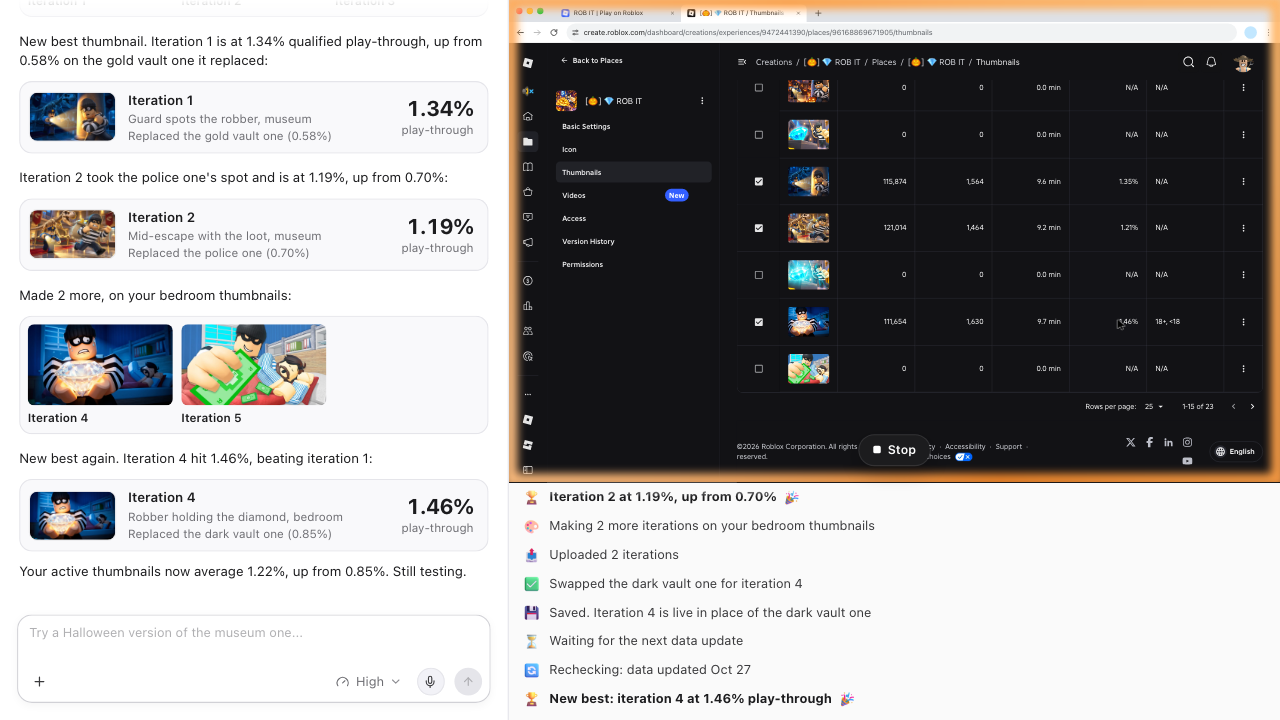
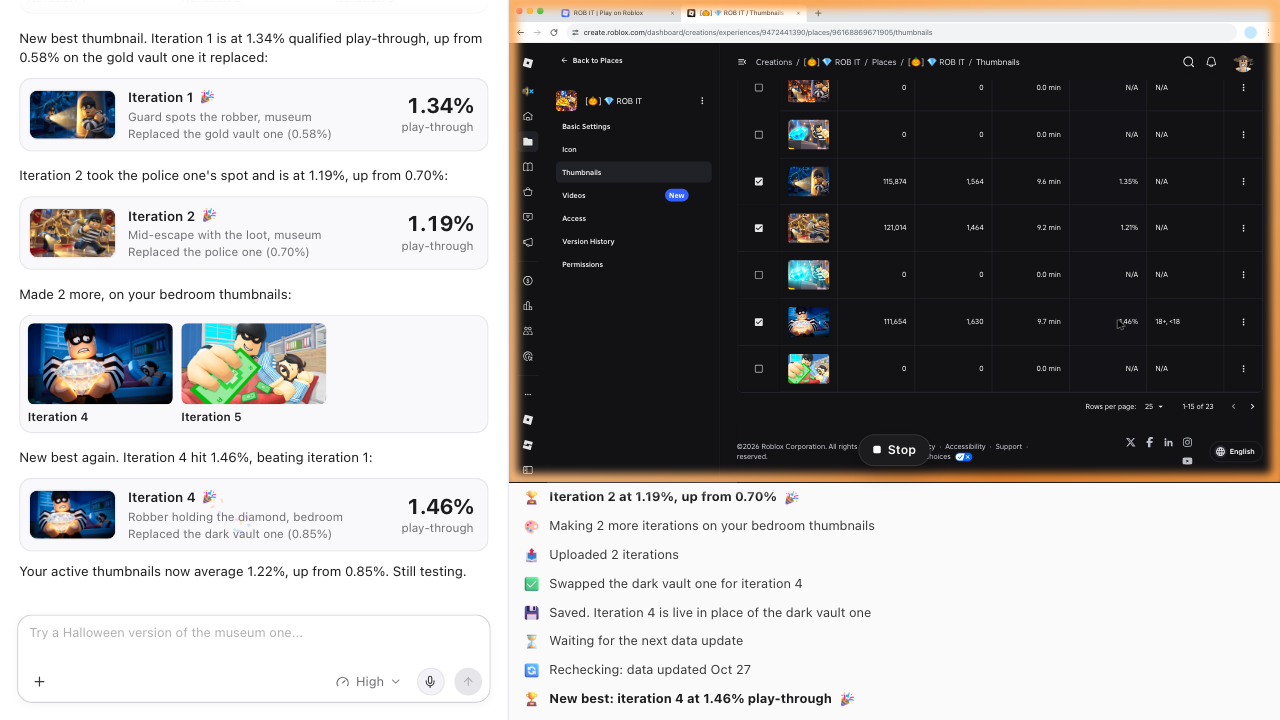
Roblox thumbnails (af4c3c6b): breakthrough cards pop confetti; both breakthroughs loops start cleanly on a slow load
A breakthrough card in the chat carries the party popper after its title, popping and firing confetti as the
card arrives, as the Activity tab's wins do.

Start-up: the Roblox loop waited for its page frames with a check that the empty about:blank each frame starts on
already passed, so on a slow load (GitHub Pages, 3.7 MB of page) setup ran on blank frames, failed, and the page
stayed unpainted with the composer pushed left. ready() now waits for each frame's own page. In both loops the
white cover is opaque until the first painted frame and the chat opens full width from the first instant.

diff --git a/animations/superbot-roblox-thumbnails-af4c3c6b/feed.af4c3c6b.js b/animations/superbot-roblox-thumbnails-af4c3c6b/feed.af4c3c6b.js
@@ -27,14 +27,15 @@ function popHTML(bits) {
   const dots = bits.map((b) => `<i class="ac-bit${b.dot ? ' ac-dot' : ''}" style="background:${b.color}"></i>`).join('');
   return `<span class="ac-fx" aria-hidden="true"><img class="ac-pop" src="${FX}party_popper.png" alt="" width="15" height="15">${dots}</span>`;
 }
-function paintPop(r, t) {
-  const tau = t - r.a.at - POP_AT;
-  if (REDUCED) { r.pop.style.transform = 'none'; return; }
+// a popper (an Activity win's, or a breakthrough card's) as it stands at t, popping from `at`
+function paintPop(fx, at, t) {
+  const tau = t - at - POP_AT;
+  if (REDUCED) { fx.pop.style.transform = 'none'; return; }
   const k = seg(tau, 0, POP_IN);
   const wobble = tau > 0 ? 10 * Math.sin(tau * 20) * Math.exp(-tau * 7) : 0;
-  r.pop.style.transform = `rotate(${(-40 * (1 - outCubic(k)) + wobble).toFixed(1)}deg) scale(${(tau > 0 ? backOut(k) : 0).toFixed(3)})`;
+  fx.pop.style.transform = `rotate(${(-40 * (1 - outCubic(k)) + wobble).toFixed(1)}deg) scale(${(tau > 0 ? backOut(k) : 0).toFixed(3)})`;
   const bt = tau - BURST_AT;
-  for (const b of r.bits) {
+  for (const b of fx.bits) {
     if (bt <= 0 || bt >= BURST_LIFE) { if (b.on) { b.el.style.opacity = '0'; b.on = false; } continue; }
     b.on = true;
     const e = (1 - Math.exp(-DRAG * bt)) / DRAG;
@@ -66,36 +67,39 @@ function hintAt(t, from) {
   return { text: HINTS[n % HINTS.length], k: Math.min(kin, 1 - kout), y: ((1 - kin) - kout) * HINT_RISE };
 }
 
-// a card: one thumbnail with its rate (a finding or a breakthrough), or a strip of the iterations superbot made
-function cardHTML(card) {
+// a card: one thumbnail with its rate (a finding or a breakthrough), or a strip of the iterations superbot made; a
+// breakthrough's title carries the party popper, firing as the card comes in
+function cardHTML(card, bits) {
   if (!card) return '';
   if (card.strip) {
     return `<div class="cm-card cm-strip">${card.strip.map((id) => `<figure><img src="${THUMBS[id].img}" alt="" width="768" height="432"><figcaption>${esc(THUMBS[id].name)}</figcaption></figure>`).join('')}</div>`;
   }
   return `<div class="cm-card">
       <span class="cm-thumb"><img src="${card.img}" alt="" width="768" height="432"></span>
-      <span class="cm-card-t"><b>${esc(card.title)}</b><small>${esc(card.sub)}</small><small>${esc(card.line)}</small></span>
+      <span class="cm-card-t"><b>${esc(card.title)}${bits ? popHTML(bits) : ''}</b><small>${esc(card.sub)}</small><small>${esc(card.line)}</small></span>
       <span class="cm-card-p"><b>${esc(card.value)}</b><small>${esc(card.unit)}</small></span>
     </div>`;
 }
 
 // superbot's messages are bare text and cards, no name line over them
-function chatItem(c) {
+function chatItem(c, bits) {
   if (c.kind === 'user') return `<div class="cm cm-u"><span>${esc(c.text)}</span></div>`;
-  const card = cardHTML(c.card);
+  const card = cardHTML(c.card, bits);
   const after = c.after ? `<p class="cm-say cm-after"><span class="cm-v"></span><span class="cm-h">${esc(c.after)}</span></p>` : '';
   return `<div class="cm cm-b"><p class="cm-say"><span class="cm-v"></span><span class="cm-h">${esc(c.text)}</span></p>${card}${after}</div>`;
 }
 
 export function buildFeed(left, act, S) {
   const feedIn = left.querySelector('.ch-in');
-  const items = S.chat.map((c) => {
-    const node = el(chatItem(c));
+  const items = S.chat.map((c, k) => {
+    const bits = c.card && c.card.win ? burst(100 + k) : null;
+    const node = el(chatItem(c, bits));
     feedIn.appendChild(node);
+    if (bits) [...node.querySelectorAll('.ac-bit')].forEach((b, j) => { bits[j].el = b; bits[j].on = false; });
     const say = [...node.querySelectorAll('.cm-say')].map((p) => ({ v: p.firstElementChild, h: p.lastElementChild, text: p.lastElementChild.textContent, shown: -1 }));
     const textEnd = c.at + 0.08 + (c.text.length / STREAM_CPS);
     const cardAt = textEnd + 0.15;
-    return { c, node, say, card: node.querySelector('.cm-card'), textEnd, cardAt, h: 0 };
+    return { c, node, say, card: node.querySelector('.cm-card'), pop: node.querySelector('.ac-pop'), bits, textEnd, cardAt, h: 0 };
   });
   const actIn = act.querySelector('.ac-in');
   const rows = S.acts.map((a, n) => {
@@ -148,6 +152,7 @@ export function paintFeed(f, S, t) {
     if (it.c.kind === 'bot') {
       stream(it.say[0], it.c.at + 0.08, t);
       if (it.card) reveal(it.card, enter(t, it.cardAt));
+      if (it.pop) paintPop(it, it.cardAt + 0.1, t);
       if (it.say[1]) stream(it.say[1], it.cardAt + 0.35, t);
     }
   }
@@ -173,7 +178,7 @@ export function paintFeed(f, S, t) {
   f.empty.style.opacity = last ? '0' : '1';
   for (const r of f.rows) {
     reveal(r.node, enter(t, r.a.at));
-    if (r.pop) paintPop(r, t);
+    if (r.pop) paintPop(r, r.a.at, t);
   }
   const actRoom = f.list.clientHeight - 12; // .ac-in padding
   f.actIn.style.transform = `translateY(${(-scrolled(f.rows, t, actRoom)).toFixed(2)}px)`;

diff --git a/animations/superbot-roblox-thumbnails-af4c3c6b/style.af4c3c6b.css b/animations/superbot-roblox-thumbnails-af4c3c6b/style.af4c3c6b.css
@@ -13,7 +13,8 @@ html, body { margin: 0; height: 100%; background: #fff; overflow: hidden; }
 body { font-family: var(--ui); color: var(--ink); -webkit-font-smoothing: antialiased; }
 #stage { position: absolute; left: 50%; top: 50%; width: 1920px; height: 1080px; overflow: hidden; background: var(--bg); transform-origin: 50% 50%; }
 /* the loop's seam dips to the white ground, not to black */
-#dip { position: absolute; inset: 0; z-index: 10; background: #fff; opacity: 0; pointer-events: none; }
+/* opaque until the first painted frame, so a reload never shows the page half laid out */
+#dip { position: absolute; inset: 0; z-index: 10; background: #fff; opacity: 1; pointer-events: none; }
 .hint { position: fixed; right: 18px; bottom: 14px; font-size: 12px; color: var(--muted); opacity: .6; user-select: none; }
 body.freeze .hint { display: none; }
 
@@ -99,6 +100,8 @@ svg { flex: none; }
 .ac-pop { display: block; width: 15px; height: 15px; transform: scale(0); transform-origin: 22% 78%; }
 .ac-bit { position: absolute; left: 10px; top: 2px; width: 2.2px; height: 4.2px; border-radius: .6px; opacity: 0; }
 .ac-dot { width: 3px; height: 3px; border-radius: 50%; }
+/* a breakthrough card's popper sits after its title, inline with it */
+.cm-card-t b .ac-fx { display: inline-block; margin-left: 6px; vertical-align: -2px; }
 .ac-empty { position: absolute; left: 14px; top: 12px; margin: 0; font: 12px/16px var(--ui); color: var(--muted); }
 
 /* ---------- Chrome on the shared desktop, in the desktop's own px (computer.ba3976b6.css) ---------- */

diff --git a/animations/superbot-roblox-thumbnails-af4c3c6b/screen.af4c3c6b.js b/animations/superbot-roblox-thumbnails-af4c3c6b/screen.af4c3c6b.js
@@ -73,9 +73,12 @@ export function buildScreen(root) {
 
 // every frame loaded, its fonts and images decoded, and every thumbnail the table can show already in the cache
 export async function ready(v) {
+  // a frame starts on an empty about:blank that already reads as complete: wait for its own page, however long it takes
   await Promise.all(Object.values(v.frames).map((f) => new Promise((resolve) => {
-    const done = () => resolve();
-    if (f.contentDocument && f.contentDocument.readyState === 'complete' && f.contentDocument.body) done(); else f.addEventListener('load', done, { once: true });
+    const loaded = () => { const d = f.contentDocument; return !!d && d.readyState === 'complete' && d.location.href !== 'about:blank' && !!d.body; };
+    if (loaded()) { resolve(); return; }
+    const onload = () => { if (loaded()) { f.removeEventListener('load', onload); resolve(); } };
+    f.addEventListener('load', onload);
   })));
   await Promise.all(Object.values(v.frames).map(async (f) => {
     const doc = f.contentDocument;

diff --git a/animations/superbot-concert-tickets-breakthroughs-af4c3c6b/style.af4c3c6b.css b/animations/superbot-concert-tickets-breakthroughs-af4c3c6b/style.af4c3c6b.css
@@ -12,7 +12,8 @@ html, body { margin: 0; height: 100%; background: #fff; overflow: hidden; }
 body { font-family: var(--ui); color: var(--ink); -webkit-font-smoothing: antialiased; }
 #stage { position: absolute; left: 50%; top: 50%; width: 1920px; height: 1080px; overflow: hidden; background: var(--bg); transform-origin: 50% 50%; }
 /* the loop's seam dips to the white ground, not to black */
-#dip { position: absolute; inset: 0; z-index: 10; background: #fff; opacity: 0; pointer-events: none; }
+/* opaque until the first painted frame, so a reload never shows the page half laid out */
+#dip { position: absolute; inset: 0; z-index: 10; background: #fff; opacity: 1; pointer-events: none; }
 .hint { position: fixed; right: 18px; bottom: 14px; font-size: 12px; color: var(--muted); opacity: .6; user-select: none; }
 body.freeze .hint { display: none; }
 

diff --git a/animations/superbot-roblox-thumbnails-af4c3c6b/schedule.af4c3c6b.js b/animations/superbot-roblox-thumbnails-af4c3c6b/schedule.af4c3c6b.js
@@ -134,7 +134,7 @@ export function buildSchedule() {
     move(at + 0.05, at + 0.5, `ptr:${row(id)}@${s}`);
     const r = rateOf(table.period, id);
     act(at + 0.55, 'trophy', text(r), true);
-    return bot(at + 0.55 + POST, card.say(r), { img: THUMBS[id].img, title: THUMBS[id].name, sub: card.sub, line: `Replaced the ${THUMBS[replaced].name} one (${pct(oldRate)})`, value: pct(r), unit: 'play-through' }, card.after);
+    return bot(at + 0.55 + POST, card.say(r), { img: THUMBS[id].img, title: THUMBS[id].name, sub: card.sub, line: `Replaced the ${THUMBS[replaced].name} one (${pct(oldRate)})`, value: pct(r), unit: 'play-through', win: true }, card.after);
   };
 
   // round one: read the table, find the lowest performer, make and upload iterations, swap one in

diff --git a/animations/superbot-concert-tickets-breakthroughs-af4c3c6b/main.af4c3c6b.js b/animations/superbot-concert-tickets-breakthroughs-af4c3c6b/main.af4c3c6b.js
@@ -23,6 +23,8 @@ function dock(t) {
   side.style.opacity = REDUCED ? k.toFixed(3) : '1';
   side.style.visibility = k > 0 ? 'visible' : 'hidden';
 }
+// the opening layout from the first instant, before the pages have loaded and the clock has started
+dock(-1);
 
 function scaleStage() {
   const k = Math.min(innerWidth / 1920, innerHeight / 1080);
@@ -59,6 +61,8 @@ async function start() {
   fit(view);
   primeLists(view);
   measure(view);
+  // heights are measured at the chat's docked width, the one its messages are read at
+  chat.style.width = `${CHAT_W}px`;
   measureFeed(feed);
   if (frozen !== null) { frame(frozen); window.__ready = true; return; }
   origin = performance.now();

diff --git a/animations/superbot-roblox-thumbnails-af4c3c6b/main.af4c3c6b.js b/animations/superbot-roblox-thumbnails-af4c3c6b/main.af4c3c6b.js
@@ -23,6 +23,8 @@ function dock(t) {
   side.style.opacity = REDUCED ? k.toFixed(3) : '1';
   side.style.visibility = k > 0 ? 'visible' : 'hidden';
 }
+// the opening layout from the first instant, before the pages have loaded and the clock has started
+dock(-1);
 
 function scaleStage() {
   const k = Math.min(innerWidth / 1920, innerHeight / 1080);
@@ -59,6 +61,8 @@ async function start() {
   await ready(view);
   fit(view);
   measure(view);
+  // heights are measured at the chat's docked width, the one its messages are read at
+  chat.style.width = `${CHAT_W}px`;
   measureFeed(feed);
   if (frozen !== null) {
     frame(frozen);
